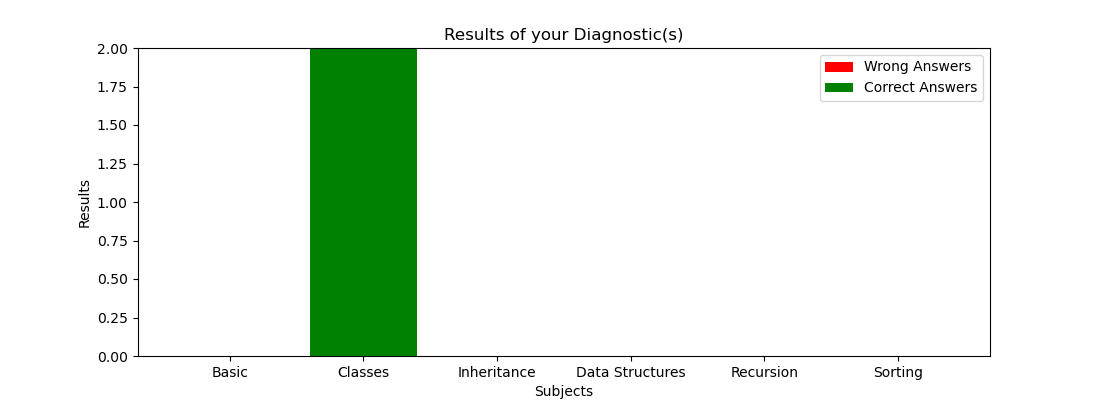
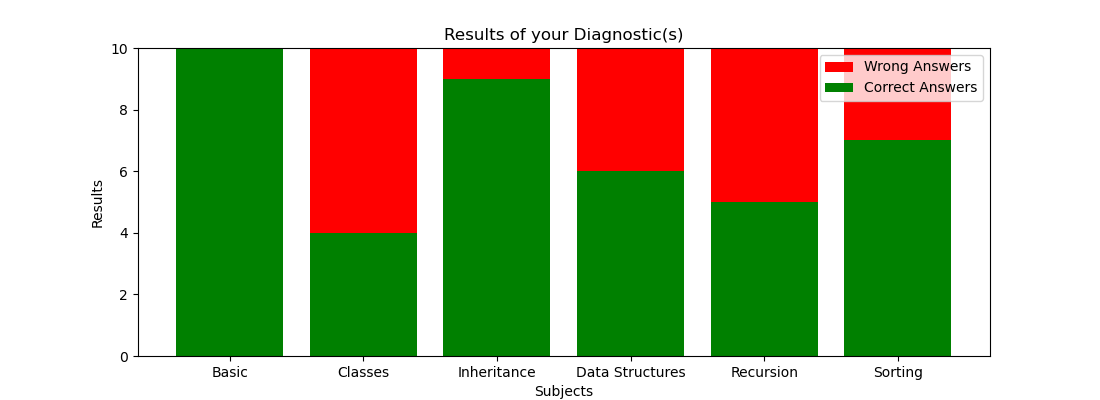
Added some minor formatting changes.

diff --git a/quiz_ui.py b/quiz_ui.py
@@ -22,7 +22,7 @@ class ComputerScienceA():
         self.correct_answers = 0
         self.ques_num_index = 0
         self.correct_answers_dict = {}
-        self.total_questions = 2
+        self.total_questions = 10
         self.current_index = 0
 
     
